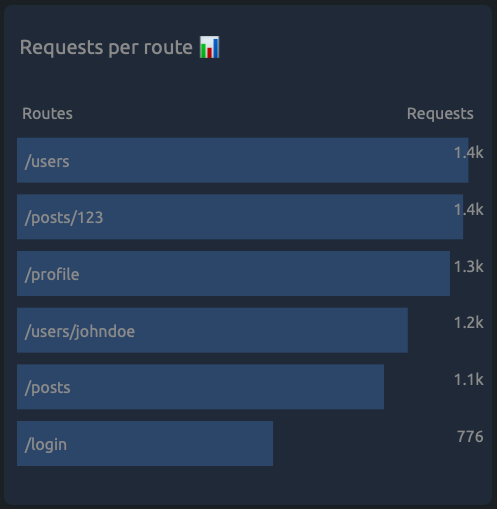
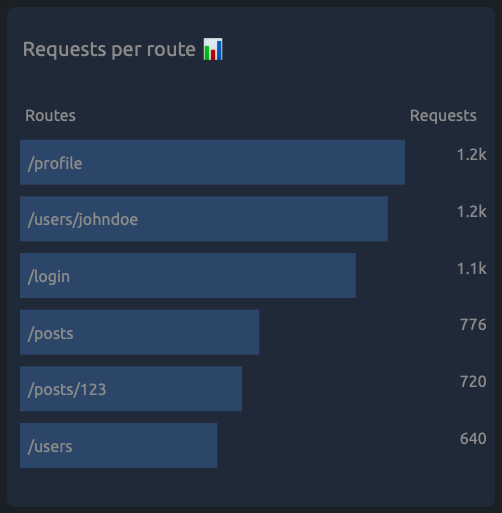
Fix route metric & response time domains

diff --git a/src/components/dashboard/ResponseTimes.tsx b/src/components/dashboard/ResponseTimes.tsx
@@ -70,6 +70,7 @@ export const ResponseTimes: React.FC<Props> = ({ metrics: { routeData }, loading
             axisLine={false}
             tick={false}
             mirror
+            domain={[0, (dataMax: number): number => dataMax * 1.2]} // Prevent bars from overlapping response time labels.
           >
             <Label value="Response time" fill="var(--base-content)" position="insideTopRight" />
           </XAxis>

diff --git a/src/components/dashboard/RouteMetrics.tsx b/src/components/dashboard/RouteMetrics.tsx
@@ -61,6 +61,7 @@ export const RouteMetrics: React.FC<Props> = ({ metrics: { routeData }, loading 
             axisLine={false}
             tick={false}
             mirror
+            domain={[0, (dataMax: number): number => dataMax * 1.2]} // Prevent bars from overlapping request labels.
           >
             <Label value="Requests" fill="var(--base-content)" position="insideTopRight" />
           </XAxis>
